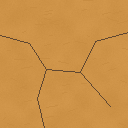
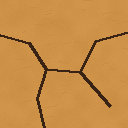
fix(ui): click button

Changed region(s): [[0.0, 0.25, 1.0, 1.0]]

diff --git a/view.py b/view.py
@@ -13,8 +13,8 @@ from inputHandler import InputHandler, Utility
 from menu import *
 from levels.levelManager import LevelManager
 
-from runner import run_search, validate_solution
-from search.contracts import SearchLimits
+from runner import run_search
+from gui_search import SearchJob
 from gameModel.problem import Problem
 from gameModel.state import State
 
@@ -98,16 +98,28 @@ class BloxorzView:
         self.soundButton.text = 'SOUND: ON' if self.sound.toggle() else 'SOUND: OFF'
 
     def showSolverMenu(self):
-        if not self.gameStarted or self.isSolving or self.isAnimating:
+        if not self.gameStarted:
             return
 
         self.pauseMenu.disable()
         self.solverMenu.show()
-        self.isPaused = True
+        self.setPaused(True)
 
     def handleAlgorithmSelected(self, algo_name: str):
         """Centralized handler for running solvers."""
-        if not self.gameStarted or self.isSolving or self.isAnimating:
+        if not self.gameStarted:
+            return
+        if algo_name not in ("BFS", "DFS", "UCS", "A*"):
+            return
+        if getattr(self, '_roll', None) is not None:
+            # The engine has already committed this move. Finish its presentation
+            # before searching from the new state, without replaying another move.
+            self._nextAlgorithm = algo_name
+            self.isSolving = self._replayReady = False
+            self.resumeGame()
+            return
+        if self.isAnimating:
+            self.resumeGame()
             return
         self.resumeGame()
         print(f"Algorithm selected: {algo_name}")
@@ -146,7 +158,25 @@ class BloxorzView:
     def resumeGame(self):
         self.pauseMenu.disable()
         self.solverMenu.hide()
-        self.isPaused = False
+        self.setPaused(False)
+
+    def setPaused(self, paused):
+        if self.isPaused == paused:
+            return
+        self.isPaused = paused
+        handles = list(getattr(self, '_pendingCalls', []))
+        movement = getattr(self, '_movement', None)
+        if movement is not None:
+            handles.extend(movement.handles)
+        for handle in handles:
+            if paused:
+                if not getattr(handle, 'finished', False):
+                    handle.pause()
+                    self._pausedHandles = getattr(self, '_pausedHandles', []) + [handle]
+        if not paused:
+            for handle in getattr(self, '_pausedHandles', []):
+                handle.resume()
+            self._pausedHandles = []
 
     def unlockControlAll(self):
         """
@@ -199,13 +229,17 @@ class BloxorzView:
         )
 
     def togglePause(self):
-        if not self.gameStarted or self.isSolving or self.isAnimating:
+        if not self.gameStarted:
             return
         if self.solverMenu.enabled:
-            self.resumeGame()
+            self.solverMenu.hide()
+            self.pauseMenu.enabled = True
             return
-        self.isPaused = not self.isPaused
-        self.pauseMenu.toggle()
+        if self.isPaused:
+            self.resumeGame()
+        else:
+            self.setPaused(True)
+            self.pauseMenu.enabled = True
 
     def setupCamera(self):
         board = self.gameModel.board
@@ -346,7 +380,10 @@ class BloxorzView:
         if uti is not None:
             match uti:
                 case Utility.PAUSE:
-                    self.togglePause()
+                    if self.isPaused:
+                        self.resumeGame()
+                    else:
+                        self.togglePause()
                 case Utility.RESTART:
                     self.restartLevel()
             return
@@ -424,6 +461,9 @@ class BloxorzView:
         self.updateClassicHUD()
         if hasattr(self, '_cameraAspect') and abs(camera.lens.get_aspect_ratio()-self._cameraAspect) > 1e-4:
             self.setupCamera()
+        if self.isPaused:
+            return
+        self.pollSearch()
         roll = getattr(self, '_roll', None)
         if roll is not None:
             elapsed = getattr(time, 'dt', 0.0) if delta is None else delta
@@ -489,6 +529,11 @@ class BloxorzView:
             self.startWinTransition()
         else:
             self.isAnimating = False
+            algorithm = getattr(self, '_nextAlgorithm', None)
+            if algorithm is not None:
+                self._nextAlgorithm = None
+                self.handleAlgorithmSelected(algorithm)
+                return
             if self.isSolving:
                 self._replayRemaining = self.replayInterval
                 self.queueReplay()
@@ -561,20 +606,24 @@ class BloxorzView:
         """Search an isolated snapshot and replay on the matching live state."""
         if self.isAnimating:
             return
+        self.cancelReplay()
         self.isSolving = True
         self.problem = Problem(State(self.gameModel.board, self.gameModel.block).copy())
-        try:
-            result = run_search(self.problem, algorithm, SearchLimits(), heuristic=None)
-            validate_solution(self.problem, result.search)
-        except NotImplementedError as exc:
-            self.solverMessage.text = str(exc)
-            print(exc)
-            self.isSolving = False
+        self._searchAlgorithm = algorithm
+        self.solverMessage.text = f"{algorithm}: searching..."
+        self._searchJob = SearchJob(self.problem, algorithm, run_search)
+
+    def pollSearch(self):
+        job = getattr(self, '_searchJob', None)
+        if job is None or not job.future.done():
             return
+        self._searchJob = None
+        algorithm = self._searchAlgorithm
+        try:
+            result = job.future.result()
         except Exception as exc:
             self.solverMessage.text = f"Solver error: {exc}"
             self.isSolving = False
-            print(f"Solver error: {exc}")
             return
         self.solverMessage.text = (f"{algorithm}: {result.search.status}; moves={len(result.search.actions)} "
                                    f"cost={result.search.total_cost}\n"
@@ -586,9 +635,16 @@ class BloxorzView:
             return
         self.autoSolution = list(result.search.actions)
         self.autoIndex = 0
-        self._replayCall = self.schedule(self.queueReplay, 0.5)
+        self._replayRemaining = 0.5
+        self.queueReplay()
 
     def cancelReplay(self):
+        job = getattr(self, '_searchJob', None)
+        if job is not None:
+            job.cancel()
+        self._searchJob = None
+        self._nextAlgorithm = None
+        self._pausedHandles = []
         roll = getattr(self, '_roll', None)
         if roll is not None:
             roll.cancel()
@@ -639,7 +695,7 @@ class BloxorzView:
             self.updateBlockMesh()
 
     def playSolution(self):
-        if not self.isSolving or self.isAnimating:
+        if self.isPaused or not self.isSolving or self.isAnimating:
             return
 
         if self.autoIndex >= len(self.autoSolution):
@@ -670,6 +726,7 @@ class BloxorzView:
 
     def changeLevel(self, result):
         self.cancelReplay()
+        self.solverMessage.text = ''
         self.pauseMenu.disable()
         self.solverMenu.hide()
         board, block = result

diff --git a/tests/test_gui_pause.py b/tests/test_gui_pause.py
@@ -1,0 +1,104 @@
+"""Pause/replacement regressions during search, rolling and replay delay."""
+import importlib.util
+import unittest
+from concurrent.futures import CancelledError
+from threading import Event
+from types import SimpleNamespace
+from unittest.mock import patch
+
+from test_gui_rules import make_view, finish_roll
+from gameModel.block import Direction as D
+from inputHandler import InputHandler
+from runner import run_search
+
+
+def playable():
+    v = make_view(13)
+    v.inputHandler = InputHandler()
+    v.pauseMenu = SimpleNamespace(enabled=False)
+    v.pauseMenu.disable = lambda: setattr(v.pauseMenu, 'enabled', False)
+    v.solverMenu = SimpleNamespace(enabled=False)
+    v.solverMenu.hide = lambda: setattr(v.solverMenu, 'enabled', False)
+    v.solverMenu.show = lambda: setattr(v.solverMenu, 'enabled', True)
+    return v
+
+
+@unittest.skipUnless(importlib.util.find_spec('ursina'), 'GUI dependencies not installed')
+class PauseTests(unittest.TestCase):
+    def test_p_freezes_half_roll_and_resumes_same_move(self):
+        v = playable()
+        v.isSolving = True
+        v.autoSolution = [D.RIGHT, D.DOWN]
+        v.queueReplay()
+        v.updateAnimations(0)
+        v.updateAnimations(.11)
+        pose = (v.blockMesh.position, v.blockMesh.rotation)
+        v.handleUrsinaInput('p')
+        self.assertTrue(v.pauseMenu.enabled and v.isPaused)
+        v.updateAnimations(100)
+        self.assertEqual((v.blockMesh.position, v.blockMesh.rotation), pose)
+        self.assertEqual(v.autoIndex, 1)
+        v.handleUrsinaInput('p')
+        finish_roll(v)
+        self.assertFalse(v.isAnimating or v.isPaused)
+        self.assertEqual(v.autoIndex, 1)
+
+    def test_solver_and_menu_freeze_replay_delay(self):
+        v = playable()
+        v.isSolving = True
+        v.autoSolution = [D.RIGHT]
+        v._replayRemaining = .5
+        v.queueReplay()
+        v.showSolverMenu()
+        v.updateAnimations(10)
+        self.assertEqual(v._replayRemaining, .5)
+        v.togglePause()
+        self.assertTrue(v.pauseMenu.enabled)
+        self.assertFalse(v.solverMenu.enabled)
+        v.handleUrsinaInput('p')
+        v.updateAnimations(.5)
+        self.assertEqual(v.autoIndex, 1)
+
+    def test_replace_half_roll_searches_from_landing_without_old_next_move(self):
+        v = playable()
+        v.isSolving = True
+        v.autoSolution = [D.RIGHT, D.DOWN]
+        v.queueReplay()
+        v.updateAnimations(0)
+        v.updateAnimations(.11)
+        v.showSolverMenu()
+        with patch.object(v, 'solve') as solve:
+            v.handleAlgorithmSelected('UCS')
+            solve.assert_not_called()
+            finish_roll(v)
+            solve.assert_called_once_with('ucs')
+        self.assertFalse(v._replayReady)
+        self.assertEqual(v.moveCount, 1)
+
+    def test_slow_search_is_responsive_and_replacement_discards_old_result(self):
+        v = playable()
+        entered, release = Event(), Event()
+        def slow(problem, *args, **kwargs):
+            entered.set()
+            release.wait(5)
+            problem.checkpoint()
+            return run_search(problem, *args, **kwargs)
+        with patch('view.run_search', side_effect=slow):
+            v.solve('dfs')
+            old = v._searchJob
+            self.assertTrue(entered.wait(2))
+            v.handleUrsinaInput('p')
+            self.assertTrue(v.pauseMenu.enabled)
+            v.showSolverMenu()
+            v.handleAlgorithmSelected('BFS')
+            new = v._searchJob
+            release.set()
+            with self.assertRaises(CancelledError):
+                old.future.result(timeout=5)
+            new.future.result(timeout=10)
+            v.pollSearch()
+        self.assertIn('bfs: solved', v.solverMessage.text)
+        self.assertEqual(v.autoIndex, 0)
+        v.restartLevel()
+        v.updateAnimations(10)
+        self.assertFalse(v.isSolving)

diff --git a/gui_search.py b/gui_search.py
@@ -1,0 +1,44 @@
+"""Cancellable searches, isolated from the render thread and serialized for tracing."""
+from concurrent.futures import CancelledError, ThreadPoolExecutor
+from threading import Event
+
+from gameModel.problem import Problem
+from runner import validate_solution
+from search.contracts import SearchLimits
+
+
+_executor = ThreadPoolExecutor(max_workers=1, thread_name_prefix='bloxorz-search')
+
+
+class SearchJob(Problem):
+    def __init__(self, problem, algorithm, run_search):
+        super().__init__(problem.initial, unit_cost=problem.unit_cost)
+        self.cancelled = Event()
+        self.future = _executor.submit(self.compute, algorithm, run_search)
+
+    def checkpoint(self):
+        if self.cancelled.is_set():
+            raise CancelledError()
+
+    def goal_test(self, state):
+        self.checkpoint()
+        return super().goal_test(state)
+
+    def actions(self, state):
+        self.checkpoint()
+        return super().actions(state)
+
+    def result(self, state, action):
+        self.checkpoint()
+        return super().result(state, action)
+
+    def compute(self, algorithm, run_search):
+        self.checkpoint()
+        result = run_search(self, algorithm, SearchLimits(), heuristic=None)
+        validate_solution(self, result.search)
+        self.checkpoint()
+        return result
+
+    def cancel(self):
+        self.cancelled.set()
+        self.future.cancel()

diff --git a/examples/classic_preview.py b/examples/classic_preview.py
@@ -116,8 +116,10 @@ def main():
         choose(1)
         ui.solverButton.on_click()
         next(e for e in ui.solverMenu.elements if getattr(e, 'text', None) == 'A*').on_click()
-        ui.solverButton.on_click()  # A running replay cannot open another solver.
-        assert not ui.solverMenu.enabled and not ui.isPaused and ui.isSolving
+        ui.solverButton.on_click()
+        assert ui.solverMenu.enabled and ui.isPaused and ui.isSolving
+        ui.solverMenu.cancel_button.on_click()
+        ui._searchJob.future.result(timeout=30)
         for _ in range(600):
             tick()
             if ui.levelManager.currentLevel == 2:

diff --git a/tests/test_gui_rules.py b/tests/test_gui_rules.py
@@ -93,6 +93,9 @@ class GuiRulesTests(unittest.TestCase):
             return RunResult(SearchResult('solved', (D.LEFT,), 1.0, 0, 0), 0.0, 0)
         with patch('view.run_search', side_effect=fake), patch('view.invoke') as invoke:
             v.solve('astar')
+            with self.assertRaises(ValueError):
+                v._searchJob.future.result(timeout=5)
+            v.pollSearch()
             self.assertIn('Solver error', v.solverMessage.text)
             self.assertFalse(v.isSolving)
             invoke.assert_not_called()

diff --git a/scripts/generate_classic_assets.py b/scripts/generate_classic_assets.py
@@ -51,7 +51,7 @@ def main():
     draw = ImageDraw.Draw(fragile)
     for path in [[(0,35),(29,43),(46,69),(80,72),(110,106)],
                  [(46,69),(37,98),(44,128)],[(80,72),(95,41),(128,32)]]:
-        draw.line(path,fill=(97,72,49),width=1)
+        draw.line(path,fill=(57,35,21),width=3)
     fragile.save(ROOT/'fragile_stone.png')
     coarse = noise((256,256),(13,13),90)
     rust = Image.new('RGB',(256,256))

diff --git a/README.md b/README.md
@@ -56,8 +56,11 @@ tách, P để pause, R để restart. Nút SOLVER trên màn hình chơi mở b
 BFS/DFS/UCS/A*; chọn BACK TO GAME hoặc nhấn P để quay lại. Cầu đóng biến mất
 hoàn toàn, chỉ hiện khi công tắc mở cầu. Khối xoay 90° quanh cạnh khi lăn
 (0,22 giây/bước); công tắc và hiệu ứng cập nhật khi tiếp đất. Có New Game/Restart. A* mặc định
-h=0; lời giải phải qua kiểm chứng trước khi phát lại. Tìm kiếm còn đồng bộ nên
-có thể đứng cửa sổ trong khi solve. Đã kiểm tra engine, mock GUI và offscreen;
+h=0; lời giải phải qua kiểm chứng trước khi phát lại. Tìm kiếm chạy nền để giao diện
+vẫn nhận nút bấm. MENU/P và SOLVER tạm dừng chuyển động, kể cả giữa cú lăn;
+BACK TO GAME/P tiếp tục replay. Chọn thuật toán khác hủy lời giải cũ và tìm từ
+trạng thái hiện tại (hoàn tất cú lăn đang dở trước khi tìm). Khi mở panel, tìm kiếm
+nền có thể hoàn tất nhưng replay chỉ chạy khi tiếp tục game. Đã kiểm tra engine, mock GUI và offscreen;
 chưa nghiệm thu GUI tương tác thủ công. Đây chưa phải kết quả benchmark.
 
 ## Tài liệu và phân công
